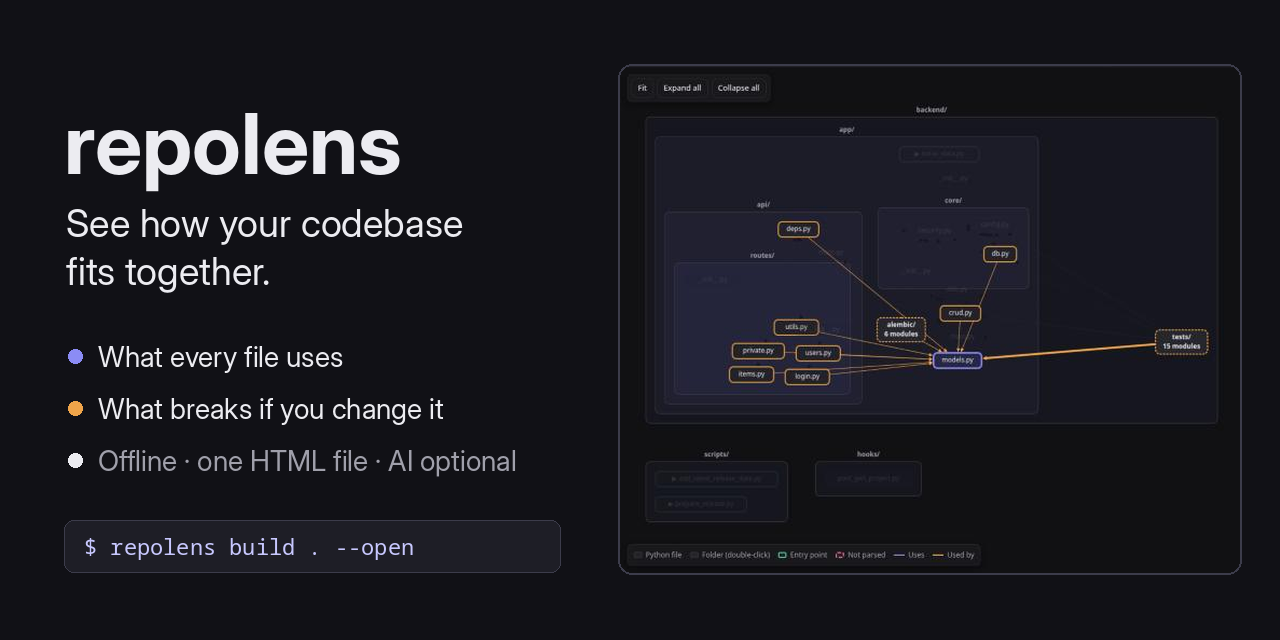
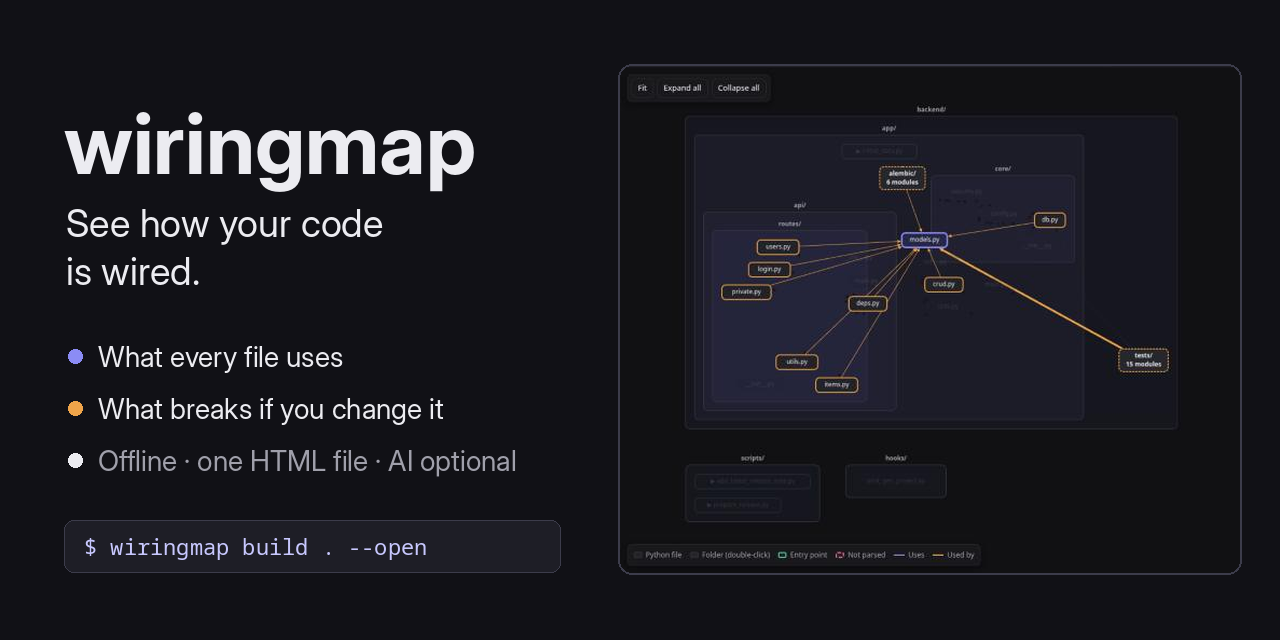
Rename the project to wiringmap
PyPI refuses "repolens" because it is too similar to an existing
project, "repo-lens", which is also an AI tool for repositories. The
package, command, Python module, output folder (.wiringmap/), viewer
and docs now use "wiringmap", with the tagline "See how your code is
wired." The demo GIF and social preview were re-recorded with the new
name.

diff --git a/src/wiringmap/render/static/app.js b/src/wiringmap/render/static/app.js
@@ -1,10 +1,10 @@
-/* repolens viewer: draws graph.json as an explorable map. Runs fully offline. */
+/* wiringmap viewer: draws graph.json as an explorable map. Runs fully offline. */
 (function () {
   "use strict";
 
   const { html, render, useState, useEffect, useMemo, useRef, useCallback } = htmPreact;
 
-  const DATA = JSON.parse(document.getElementById("repolens-data").textContent);
+  const DATA = JSON.parse(document.getElementById("wiringmap-data").textContent);
   const G = DATA.graph;
   const SOURCES = DATA.sources || {};
   const ROOT = "dir:.";
@@ -440,7 +440,7 @@
       const restyle = () => cy.style(graphStyle());
       scheme.addEventListener("change", restyle);
       cyRef.current = cy;
-      window.repolens = { cy, graph: G }; // handy in the browser console
+      window.wiringmap = { cy, graph: G }; // handy in the browser console
       return () => (scheme.removeEventListener("change", restyle), cy.destroy());
     }, []);
 
@@ -911,7 +911,7 @@
     const when = G.created_at ? new Date(G.created_at).toLocaleString() : "";
     return html`<div class="pad welcome">
       <h2>${G.root_name}</h2>
-      <p>A map of how this code fits together, made by repolens ${G.generator.version}${when ? " on " + when : ""}.</p>
+      <p>A map of how this code is wired, made by wiringmap ${G.generator.version}${when ? " on " + when : ""}.</p>
       <ol>
         <li><b>Boxes are Python files.</b> Dashed boxes are folders: double-click one to open it.</li>
         <li><b>Arrows point to what a file imports.</b> Switch to “Calls” to see which files call into which.</li>
@@ -960,7 +960,7 @@
   const THEMES = ["auto", "light", "dark"];
   function loadTheme() {
     try {
-      return localStorage.getItem("repolens-theme") || "auto";
+      return localStorage.getItem("wiringmap-theme") || "auto";
     } catch (e) {
       return "auto";
     }
@@ -983,7 +983,7 @@
       if (theme === "auto") delete root.dataset.theme;
       else root.dataset.theme = theme;
       try {
-        localStorage.setItem("repolens-theme", theme);
+        localStorage.setItem("wiringmap-theme", theme);
       } catch (e) {}
     }, [theme]);
 
@@ -1035,7 +1035,7 @@
 
     return html`<div class="app">
       <header class="topbar">
-        <div class="brand"><h1>${G.root_name}</h1><span class="by">repolens</span></div>
+        <div class="brand"><h1>${G.root_name}</h1><span class="by">wiringmap</span></div>
         <div class="stats">
           <span class="stat"><b>${totalModules.toLocaleString()}</b> files</span>
           <span class="stat"><b>${(stats.nodes.class || 0).toLocaleString()}</b> classes</span>

diff --git a/src/wiringmap/render/static/report.html b/src/wiringmap/render/static/report.html
@@ -3,8 +3,8 @@
 <head>
 <meta charset="utf-8">
 <meta name="viewport" content="width=device-width, initial-scale=1">
-<meta name="generator" content="repolens">
-<title><!--@@TITLE@@--> · repolens</title>
+<meta name="generator" content="wiringmap">
+<title><!--@@TITLE@@--> · wiringmap</title>
 <style>
 <!--@@STYLE@@-->
 </style>
@@ -12,7 +12,7 @@
 <body>
 <div id="app"><p class="boot">Loading the code map…</p></div>
 <noscript><p class="boot">This report needs JavaScript to draw the code map.</p></noscript>
-<script type="application/json" id="repolens-data"><!--@@DATA@@--></script>
+<script type="application/json" id="wiringmap-data"><!--@@DATA@@--></script>
 <script>
 <!--@@VENDOR@@-->
 </script>

diff --git a/src/wiringmap/cli.py b/src/wiringmap/cli.py
@@ -12,16 +12,16 @@ from rich.console import Console
 from rich.progress import BarColumn, MofNCompleteColumn, Progress, TextColumn
 from rich.table import Table
 
-from repolens import __version__
-from repolens.builder import build_graph
-from repolens.graph import CodeGraph
-from repolens.render.html import SOURCE_BUDGET, collect_sources, render_report
+from wiringmap import __version__
+from wiringmap.builder import build_graph
+from wiringmap.graph import CodeGraph
+from wiringmap.render.html import SOURCE_BUDGET, collect_sources, render_report
 
-OUTPUT_DIR = ".repolens"
+OUTPUT_DIR = ".wiringmap"
 
 app = typer.Typer(
-    name="repolens",
-    help="See how your codebase fits together: offline, interactive, AI optional.",
+    name="wiringmap",
+    help="See how your code is wired: offline, interactive, AI optional.",
     no_args_is_help=True,
     add_completion=False,
     pretty_exceptions_show_locals=False,
@@ -31,7 +31,7 @@ err = Console(stderr=True)
 
 def _version_callback(value: bool) -> None:
     if value:
-        typer.echo(f"repolens {__version__}")
+        typer.echo(f"wiringmap {__version__}")
         raise typer.Exit()
 
 
@@ -48,7 +48,7 @@ def main(
         ),
     ] = False,
 ) -> None:
-    """repolens turns a repository into an interactive map of its files, classes and functions."""
+    """wiringmap turns a repository into an interactive map of its files, classes and functions."""
 
 
 @app.command()
@@ -158,7 +158,7 @@ def _output_dir(repo: Path) -> Path:
     # Like .pytest_cache: the folder ignores itself, so it is never committed by accident.
     ignore = out_dir / ".gitignore"
     if not ignore.exists():
-        ignore.write_text("# Created by repolens\n*\n", encoding="utf-8")
+        ignore.write_text("# Created by wiringmap\n*\n", encoding="utf-8")
     return out_dir
 
 

diff --git a/tests/test_render.py b/tests/test_render.py
@@ -4,12 +4,12 @@ import re
 from conftest import SAMPLE_PROJECT
 from typer.testing import CliRunner
 
-from repolens.cli import app
-from repolens.render import collect_sources, render_report
+from wiringmap.cli import app
+from wiringmap.render import collect_sources, render_report
 
 runner = CliRunner()
 
-DATA = re.compile(r'<script type="application/json" id="repolens-data">(.*?)</script>', re.S)
+DATA = re.compile(r'<script type="application/json" id="wiringmap-data">(.*?)</script>', re.S)
 
 
 def embedded(page: str) -> dict:
@@ -57,9 +57,9 @@ def test_build_command_writes_report_and_graph(make_repo):
     root = make_repo({"app.py": "def main():\n    pass\n"})
     result = runner.invoke(app, ["build", str(root), "-q"])
     assert result.exit_code == 0, result.output
-    page = (root / ".repolens" / "report.html").read_text(encoding="utf-8")
+    page = (root / ".wiringmap" / "report.html").read_text(encoding="utf-8")
     assert embedded(page)["sources"]["app.py"].startswith("def main")
-    assert json.loads((root / ".repolens" / "graph.json").read_text())["root_name"] == root.name
+    assert json.loads((root / ".wiringmap" / "graph.json").read_text())["root_name"] == root.name
 
 
 def test_build_without_source(make_repo, tmp_path_factory):
@@ -70,4 +70,4 @@ def test_build_without_source(make_repo, tmp_path_factory):
     page = out.read_text(encoding="utf-8")
     assert embedded(page)["sources"] == {}
     assert "SECRET" not in page
-    assert not (root / ".repolens").exists()  # an explicit -o leaves the repo untouched
+    assert not (root / ".wiringmap").exists()  # an explicit -o leaves the repo untouched

diff --git a/tests/test_cli.py b/tests/test_cli.py
@@ -3,8 +3,8 @@ import json
 from conftest import SAMPLE_PROJECT
 from typer.testing import CliRunner
 
-from repolens import __version__
-from repolens.cli import app
+from wiringmap import __version__
+from wiringmap.cli import app
 
 runner = CliRunner()
 
@@ -12,7 +12,7 @@ runner = CliRunner()
 def test_version_flag():
     result = runner.invoke(app, ["--version"])
     assert result.exit_code == 0
-    assert result.output.strip() == f"repolens {__version__}"
+    assert result.output.strip() == f"wiringmap {__version__}"
 
 
 def test_no_args_shows_help():
@@ -24,9 +24,9 @@ def test_scan_writes_default_output_that_ignores_itself(make_repo):
     root = make_repo({"app.py": "def main():\n    pass\n"})
     result = runner.invoke(app, ["scan", str(root)])
     assert result.exit_code == 0, result.output
-    graph = json.loads((root / ".repolens" / "graph.json").read_text())
+    graph = json.loads((root / ".wiringmap" / "graph.json").read_text())
     assert "app:main" in {n["id"] for n in graph["nodes"]}
-    assert (root / ".repolens" / ".gitignore").read_text().splitlines()[-1] == "*"
+    assert (root / ".wiringmap" / ".gitignore").read_text().splitlines()[-1] == "*"
 
 
 def test_scan_to_stdout_prints_only_json():

diff --git a/src/wiringmap/builder.py b/src/wiringmap/builder.py
@@ -8,10 +8,10 @@ from collections import Counter
 from collections.abc import Callable, Iterable
 from pathlib import Path
 
-from repolens.graph import CodeGraph, Edge, EdgeKind, Node, NodeKind
-from repolens.parsers.python_ast import ModuleInfo, extract_module, read_source
-from repolens.parsers.python_resolve import PyModule, PythonResolver, assign_module_names
-from repolens.scanner import DEFAULT_MAX_FILE_SIZE, SourceFile, scan_repository
+from wiringmap.graph import CodeGraph, Edge, EdgeKind, Node, NodeKind
+from wiringmap.parsers.python_ast import ModuleInfo, extract_module, read_source
+from wiringmap.parsers.python_resolve import PyModule, PythonResolver, assign_module_names
+from wiringmap.scanner import DEFAULT_MAX_FILE_SIZE, SourceFile, scan_repository
 
 if sys.version_info >= (3, 11):
     import tomllib

diff --git a/src/wiringmap/graph/model.py b/src/wiringmap/graph/model.py
@@ -1,4 +1,4 @@
-"""The code graph: the single data structure every repolens feature reads and writes.
+"""The code graph: the single data structure every wiringmap feature reads and writes.
 
 Node ids follow one scheme so they are readable and never collide across kinds:
 
@@ -143,11 +143,11 @@ class CodeGraph:
         }
 
     def to_dict(self) -> dict[str, Any]:
-        from repolens import __version__
+        from wiringmap import __version__
 
         return {
             "schema_version": SCHEMA_VERSION,
-            "generator": {"name": "repolens", "version": __version__},
+            "generator": {"name": "wiringmap", "version": __version__},
             "root_name": self.root_name,
             "created_at": datetime.now(timezone.utc).isoformat(timespec="seconds"),
             "meta": self.meta,

diff --git a/src/wiringmap/parsers/python_resolve.py b/src/wiringmap/parsers/python_resolve.py
@@ -1,7 +1,7 @@
 """Link extracted Python modules into the code graph.
 
 Static analysis of Python is best effort. Every call edge says how it was found
-(see :class:`repolens.graph.Confidence`), and calls that cannot be linked are counted
+(see :class:`wiringmap.graph.Confidence`), and calls that cannot be linked are counted
 on the calling function instead of being drawn.
 """
 
@@ -13,8 +13,8 @@ import sys
 from collections import defaultdict
 from dataclasses import dataclass
 
-from repolens.graph import CodeGraph, Confidence, Edge, EdgeKind, Node, NodeKind
-from repolens.parsers.python_ast import (
+from wiringmap.graph import CodeGraph, Confidence, Edge, EdgeKind, Node, NodeKind
+from wiringmap.parsers.python_ast import (
     ClassInfo,
     FunctionInfo,
     ImportBinding,

diff --git a/tests/test_graph_model.py b/tests/test_graph_model.py
@@ -2,7 +2,7 @@ import json
 
 import pytest
 
-from repolens.graph import SCHEMA_VERSION, CodeGraph, Edge, Node
+from wiringmap.graph import SCHEMA_VERSION, CodeGraph, Edge, Node
 
 
 def test_round_trip(sample_graph, tmp_path):
@@ -26,7 +26,7 @@ def test_output_is_sorted_and_versioned(sample_graph):
 def test_same_code_gives_same_graph(sample_graph):
     from conftest import SAMPLE_PROJECT
 
-    from repolens.builder import build_graph
+    from wiringmap.builder import build_graph
 
     again = json.loads(build_graph(SAMPLE_PROJECT).to_json())
     first = json.loads(sample_graph.to_json())

diff --git a/src/wiringmap/__init__.py b/src/wiringmap/__init__.py
@@ -1,8 +1,8 @@
-"""repolens: see how a codebase fits together. Offline, interactive, AI optional."""
+"""wiringmap: see how your code is wired. Offline, interactive, AI optional."""
 
 from importlib.metadata import PackageNotFoundError, version
 
 try:
-    __version__ = version("repolens")
+    __version__ = version("wiringmap")
 except PackageNotFoundError:  # running from a source tree without an install
     __version__ = "0.0.0"

diff --git a/src/wiringmap/parsers/python_ast.py b/src/wiringmap/parsers/python_ast.py
@@ -2,7 +2,7 @@
 
 This step looks at one file in isolation: what it defines, what it imports, what it
 calls and which types it hints at. Turning names into links between files happens
-later in :mod:`repolens.parsers.python_resolve`, once every file has been extracted.
+later in :mod:`wiringmap.parsers.python_resolve`, once every file has been extracted.
 """
 
 from __future__ import annotations
